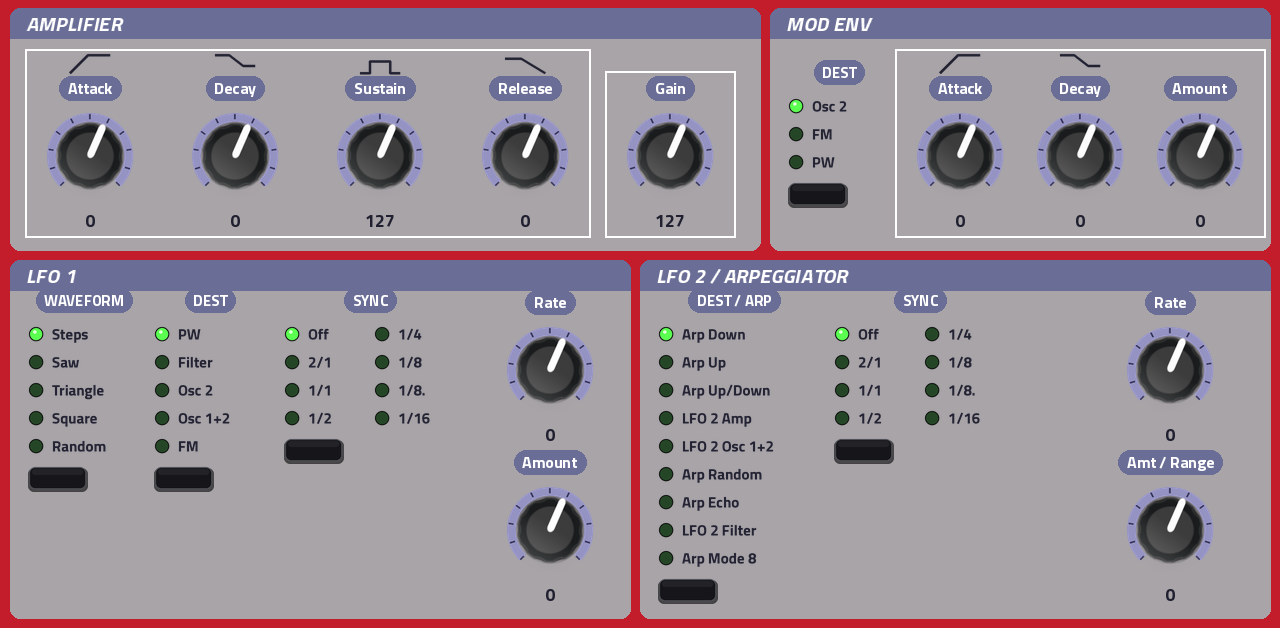
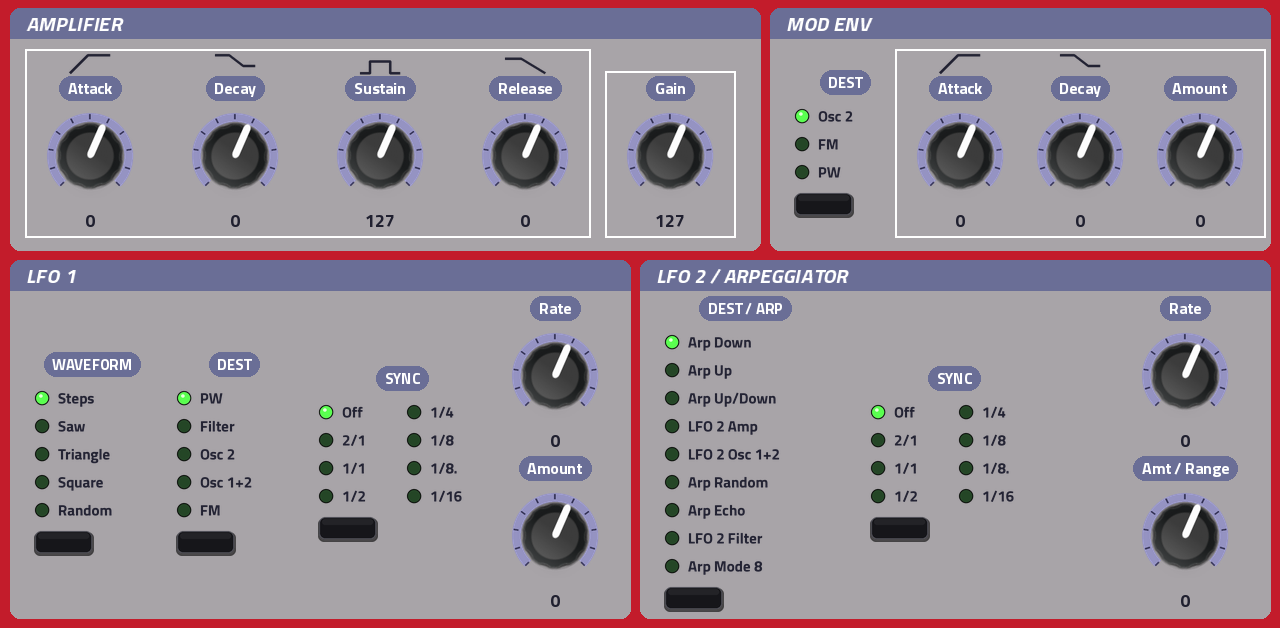
Skin: every row centred in its section, FILTER and LFO columns spread across the width, MAIN's switches clear of the values
Claude-Session: https://claude.ai/code/session_01V7tb5w5dPsa6WFixuaniE5

diff --git a/tools/make_tui.py b/tools/make_tui.py
@@ -311,14 +311,16 @@ def page_main(fn):
     for i, (k, cap) in enumerate(FAV_KEYS):
         pg.key(k, 80 + i * 150, 318, cap, w=138, h=40)
     pg.kids.append(label("168 238 392 22", "fav_text", 16, hexcol(A.INK_ON_NAVY)))
-    ry = 384
-    pg.leds_n("VoiceMode", 24, ry, 130, "PLAY MODE", rh=34, order=[0, 1, 2], labels=["Mono", "Legato", "Poly"])
-    pg.knob("Portamento", 250, ry + 50, "PORTAMENTO", navy=True)
-    pg.toggle("Auto", 250, ry + 176, "AUTO")
-    pg.knob("unison_detune", 400, ry + 50, "DETUNE", navy=True)
-    pg.toggle("Unison", 400, ry + 176, "UNISON")
-    pg.leds_n("OctaveShift", 486, ry, 120, "OCT SHIFT", rh=32)
-    pg.leds_n("ModWheelDest", 626, ry, 136, "MOD W DEST", rh=32, labels=["Filter", "FM", "Osc 2", "LFO 1", "Morph"])
+    # the performance row: every column centred on the same line in the space under the keys (y 344 .. 612)
+    yc = 478
+    pg.leds_n("VoiceMode", 24, yc - 80 + 32, 130, "PLAY MODE", rh=32, order=[0, 1, 2], labels=["Mono", "Legato", "Poly"])
+    kcy, tcy = yc - 118 + 82, yc - 118 + 82 + 78 + 12 + 48             # knob over its switch: 236 px tall together
+    pg.knob("Portamento", 250, kcy, "PORTAMENTO", navy=True)
+    pg.toggle("Auto", 250, tcy, "AUTO")
+    pg.knob("unison_detune", 400, kcy, "DETUNE", navy=True)
+    pg.toggle("Unison", 400, tcy, "UNISON")
+    pg.leds_n("OctaveShift", 486, yc - 107 + 32, 120, "OCT SHIFT", rh=30)
+    pg.leds_n("ModWheelDest", 626, yc - 107 + 32, 136, "MOD W DEST", rh=30, labels=["Filter", "FM", "Osc 2", "LFO 1", "Morph"])
     pg.section(786, 112, 1272, 620, "quick edit")
     a = [("Cutoff", "Cutoff"), ("Resonance", "Resonance"), ("FilterEnvAmount", "Env Amt"), ("FilterEnvD", "F.Decay")]
     b = [("AmpEnvA", "Attack"), ("AmpEnvR", "Release"), ("Mix", "Osc Mix"), ("Lfo1Rate", "LFO 1 Rate")]
@@ -440,33 +442,33 @@ def keyboard(pg):
 
 
 def page_oscfilter(fn):
-    """OSC & FILTER, the middle of the panel: OSC 1 | OSC 2 | MIX along the top, the FILTER under them (type, frequency, resonance,
-    envelope amount, keyboard tracking, velocity, distortion, its envelope)."""
+    """OSC & FILTER, the middle of the panel: OSC 1 | OSC 2 | MIX along the top, the FILTER under them (type and keyboard-tracking
+    LEDs, then frequency, resonance, envelope amount, velocity and distortion over the filter envelope). Every column is centred
+    in its section's height."""
     pg = Page("OSC/FILTER", fn)
     pg.section(10, 8, 400, 236, "osc 1")
-    pg.leds("O1Waveform", 24, 78, 130, "WAVEFORM")
-    pg.knob("FmDepth", 232, 136, "FM Amount")
-    pg.knob("PW", 340, 136, "Pulse Width")
+    pg.leds("O1Waveform", 26, 81, 130, "WAVEFORM")
+    pg.knob("FmDepth", 232, 139, "FM Amount")
+    pg.knob("PW", 340, 139, "Pulse Width")
     pg.section(410, 8, 990, 236, "osc 2")
-    pg.leds("O2Waveform", 424, 78, 130, "WAVEFORM")
-    pg.toggle("O2Keytrack", 610, 90, "KBD TRACK")
-    pg.toggle("Sync", 610, 152, "SYNC")
-    pg.toggle("RingMod", 610, 214, "RING MOD")
-    pg.knob("O2Pitch", 760, 136, "Semitones")
-    pg.knob("O2PitchFine", 890, 136, "Fine Tune")
+    pg.leds("O2Waveform", 426, 81, 130, "WAVEFORM")
+    pg.toggle("O2Keytrack", 618, 92, "KBD TRACK")
+    pg.toggle("Sync", 618, 154, "SYNC")
+    pg.toggle("RingMod", 618, 216, "RING MOD")
+    pg.knob("O2Pitch", 770, 139, "Semitones")
+    pg.knob("O2PitchFine", 900, 139, "Fine Tune")
     pg.section(1000, 8, 1270, 236, "mix")
-    pg.knob("Mix", 1135, 136, "Osc 1 / Osc 2")
+    pg.knob("Mix", 1135, 139, "Osc 1 / Osc 2")
     pg.section(10, 246, 1270, 618, "filter")
-    pg.leds("FilterType", 24, 306, 140, "FILTER TYPE", order=[2, 1, 0, 3, 4, 5], labels=["LP 12 dB", "LP 24 dB", "HP 24 dB", "Band Pass", "Notch + LP", "Notch"])
-    pg.leds("FilterKeytrack", 186, 306, 110, "KBD TRACK", order=[3, 2, 1, 0], labels=["Off", "1/3", "2/3", "Full"])
-    pg.toggle("FilterVelocity", 370, 330, "VELOCITY")
-    pg.toggle("Distortion", 370, 410, "DISTORTION")
-    ky = 362
-    for i, (k, c) in enumerate((("Cutoff", "Frequency"), ("Resonance", "Resonance"), ("FilterEnvAmount", "Env Amount"))):
-        pg.knob(k, 530 + i * 150, ky, c)
-    ky2 = 540
-    for i, (k, c) in enumerate((("FilterEnvA", "Attack"), ("FilterEnvD", "Decay"), ("FilterEnvS", "Sustain"), ("FilterEnvR", "Release"))):
-        pg.knob(k, 530 + i * 150, ky2, c)
+    pg.leds("FilterType", 40, 357, 150, "FILTER TYPE", rh=30, order=[2, 1, 0, 3, 4, 5], labels=["LP 12 dB", "LP 24 dB", "HP 24 dB", "Band Pass", "Notch + LP", "Notch"])
+    pg.leds("FilterKeytrack", 236, 387, 120, "KBD TRACK", rh=30, order=[3, 2, 1, 0], labels=["Off", "1/3", "2/3", "Full"])
+    xs = (560, 750, 940, 1130)
+    for x, (k, c) in zip(xs, (("Cutoff", "Frequency"), ("Resonance", "Resonance"), ("FilterEnvAmount", "Env Amount"))):
+        pg.knob(k, x, 358, c)
+    pg.toggle("FilterVelocity", xs[3], 325, "VELOCITY")
+    pg.toggle("Distortion", xs[3], 419, "DISTORTION")
+    for x, (k, c) in zip(xs, (("FilterEnvA", "Attack"), ("FilterEnvD", "Decay"), ("FilterEnvS", "Sustain"), ("FilterEnvR", "Release"))):
+        pg.knob(k, x, 540, c)
     pg.block(["FmDepth", "PW"]); pg.block(["O2Pitch", "O2PitchFine"]); pg.block(["Mix"])
     pg.block(["Cutoff", "Resonance", "FilterEnvAmount"])
     pg.subtab()
@@ -476,27 +478,27 @@ def page_oscfilter(fn):
 
 def page_mod(fn):
     """AMP & MOD: the AMPLIFIER (ADSR, gain) and the MOD ENV along the top; LFO 1 and LFO 2 / ARPEGGIATOR under them, each with its LED
-    choices and cycle keys, the knobs at its right."""
+    choices and cycle keys spread across the section, rate and amount stacked at its right, all centred in the section's height."""
     pg = Page("AMP/MOD", fn)
     pg.section(10, 8, 760, 250, "amplifier")
     for i, (k, c) in enumerate((("AmpEnvA", "Attack"), ("AmpEnvD", "Decay"), ("AmpEnvS", "Sustain"), ("AmpEnvR", "Release"), ("Gain", "Gain"))):
         pg.knob(k, 90 + i * 145, 156, c)
     pg.section(770, 8, 1270, 250, "mod env")
-    pg.leds("ModEnvDest", 784, 92, 110, "DEST", labels=["Osc 2", "FM", "PW"])
+    pg.leds("ModEnvDest", 790, 102, 110, "DEST", labels=["Osc 2", "FM", "PW"])
     pg.knob("ModEnvA", 960, 156, "Attack")
     pg.knob("ModEnvD", 1080, 156, "Decay")
     pg.knob("ModEnvLevel", 1200, 156, "Amount")
     pg.section(10, 260, 630, 618, "lfo 1")
-    pg.leds("Lfo1Waveform", 24, 320, 120, "WAVEFORM")
-    pg.leds("Lfo1Dest", 150, 320, 120, "DEST")
-    pg.leds("lfo1_sync", 280, 320, 90, "SYNC", cols=2)
-    pg.knob("Lfo1Rate", 550, 370, "Rate")
-    pg.knob("Lfo1Level", 550, 530, "Amount")
+    pg.leds("Lfo1Waveform", 30, 384, 124, "WAVEFORM")
+    pg.leds("Lfo1Dest", 172, 384, 124, "DEST")
+    pg.leds("lfo1_sync", 314, 398, 88, "SYNC", cols=2)
+    pg.knob("Lfo1Rate", 555, 376, "Rate")
+    pg.knob("Lfo1Level", 555, 536, "Amount")
     pg.section(640, 260, 1270, 618, "lfo 2 / arpeggiator")
-    pg.leds("Lfo2Dest", 654, 320, 160, "DEST / ARP")
-    pg.leds("lfo2_sync", 830, 320, 90, "SYNC", cols=2)
-    pg.knob("Lfo2Rate", 1170, 370, "Rate")
-    pg.knob("ArpRange", 1170, 530, "Amt / Range")
+    pg.leds("Lfo2Dest", 660, 328, 170, "DEST / ARP")
+    pg.leds("lfo2_sync", 866, 398, 88, "SYNC", cols=2)
+    pg.knob("Lfo2Rate", 1185, 376, "Rate")
+    pg.knob("ArpRange", 1185, 536, "Amt / Range")
     pg.block(["AmpEnvA", "AmpEnvD", "AmpEnvS", "AmpEnvR"]); pg.block(["Gain"]); pg.block(["ModEnvA", "ModEnvD", "ModEnvLevel"])
     pg.subtab()
     pg.block(["Lfo1Rate", "Lfo1Level"]); pg.block(["Lfo2Rate", "ArpRange"])
